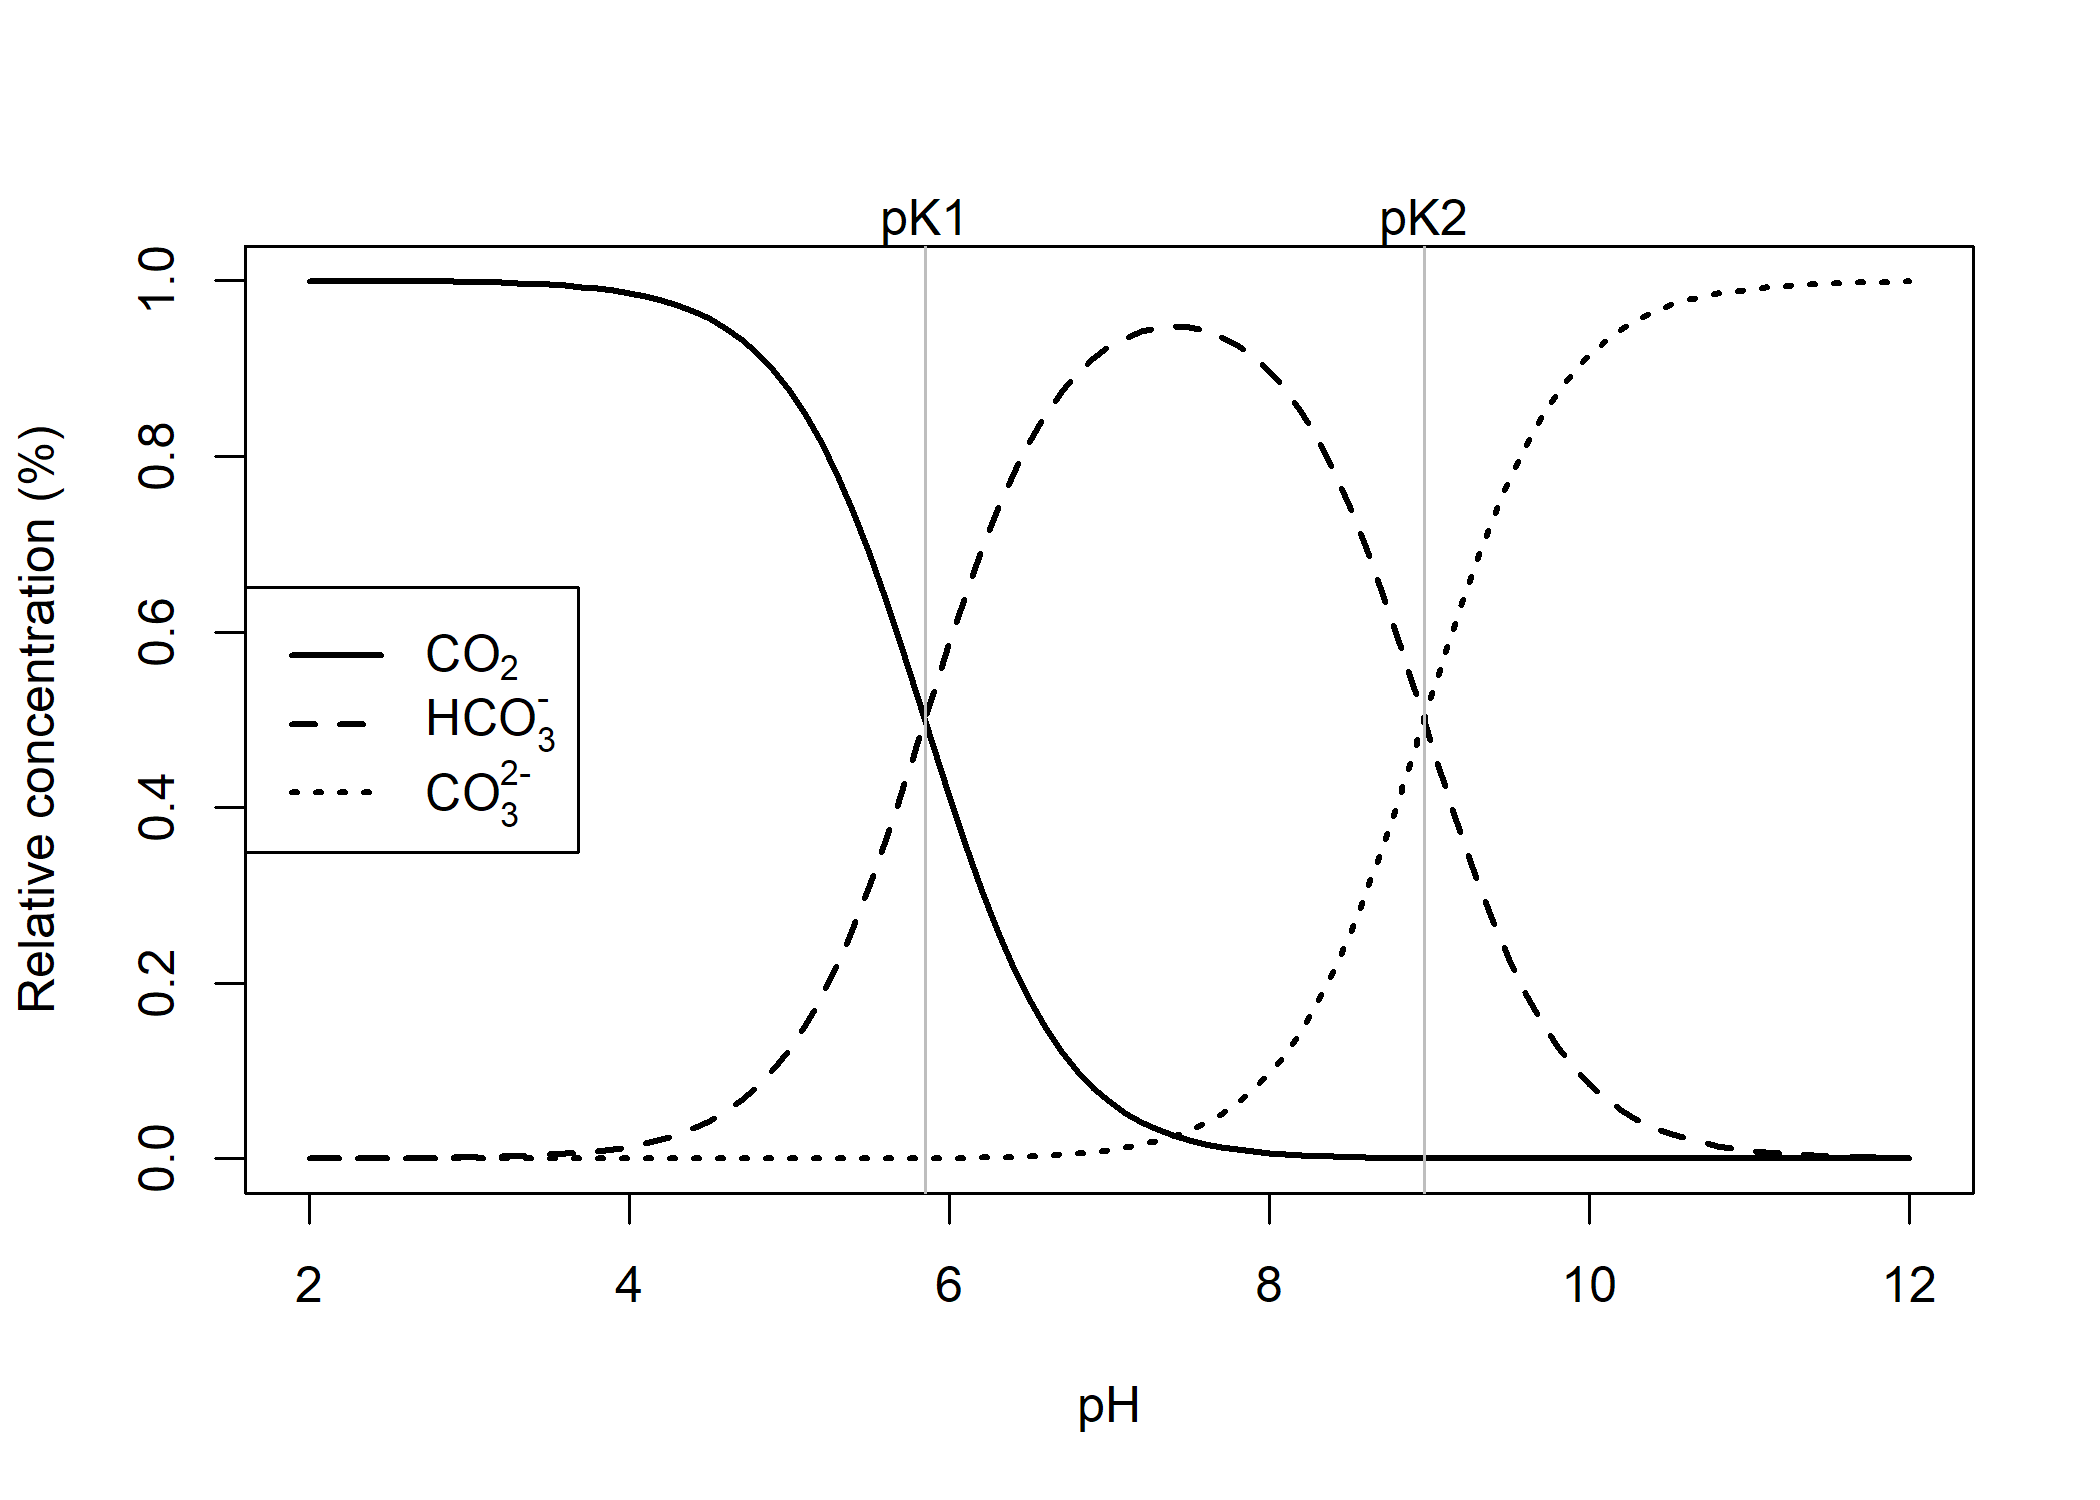
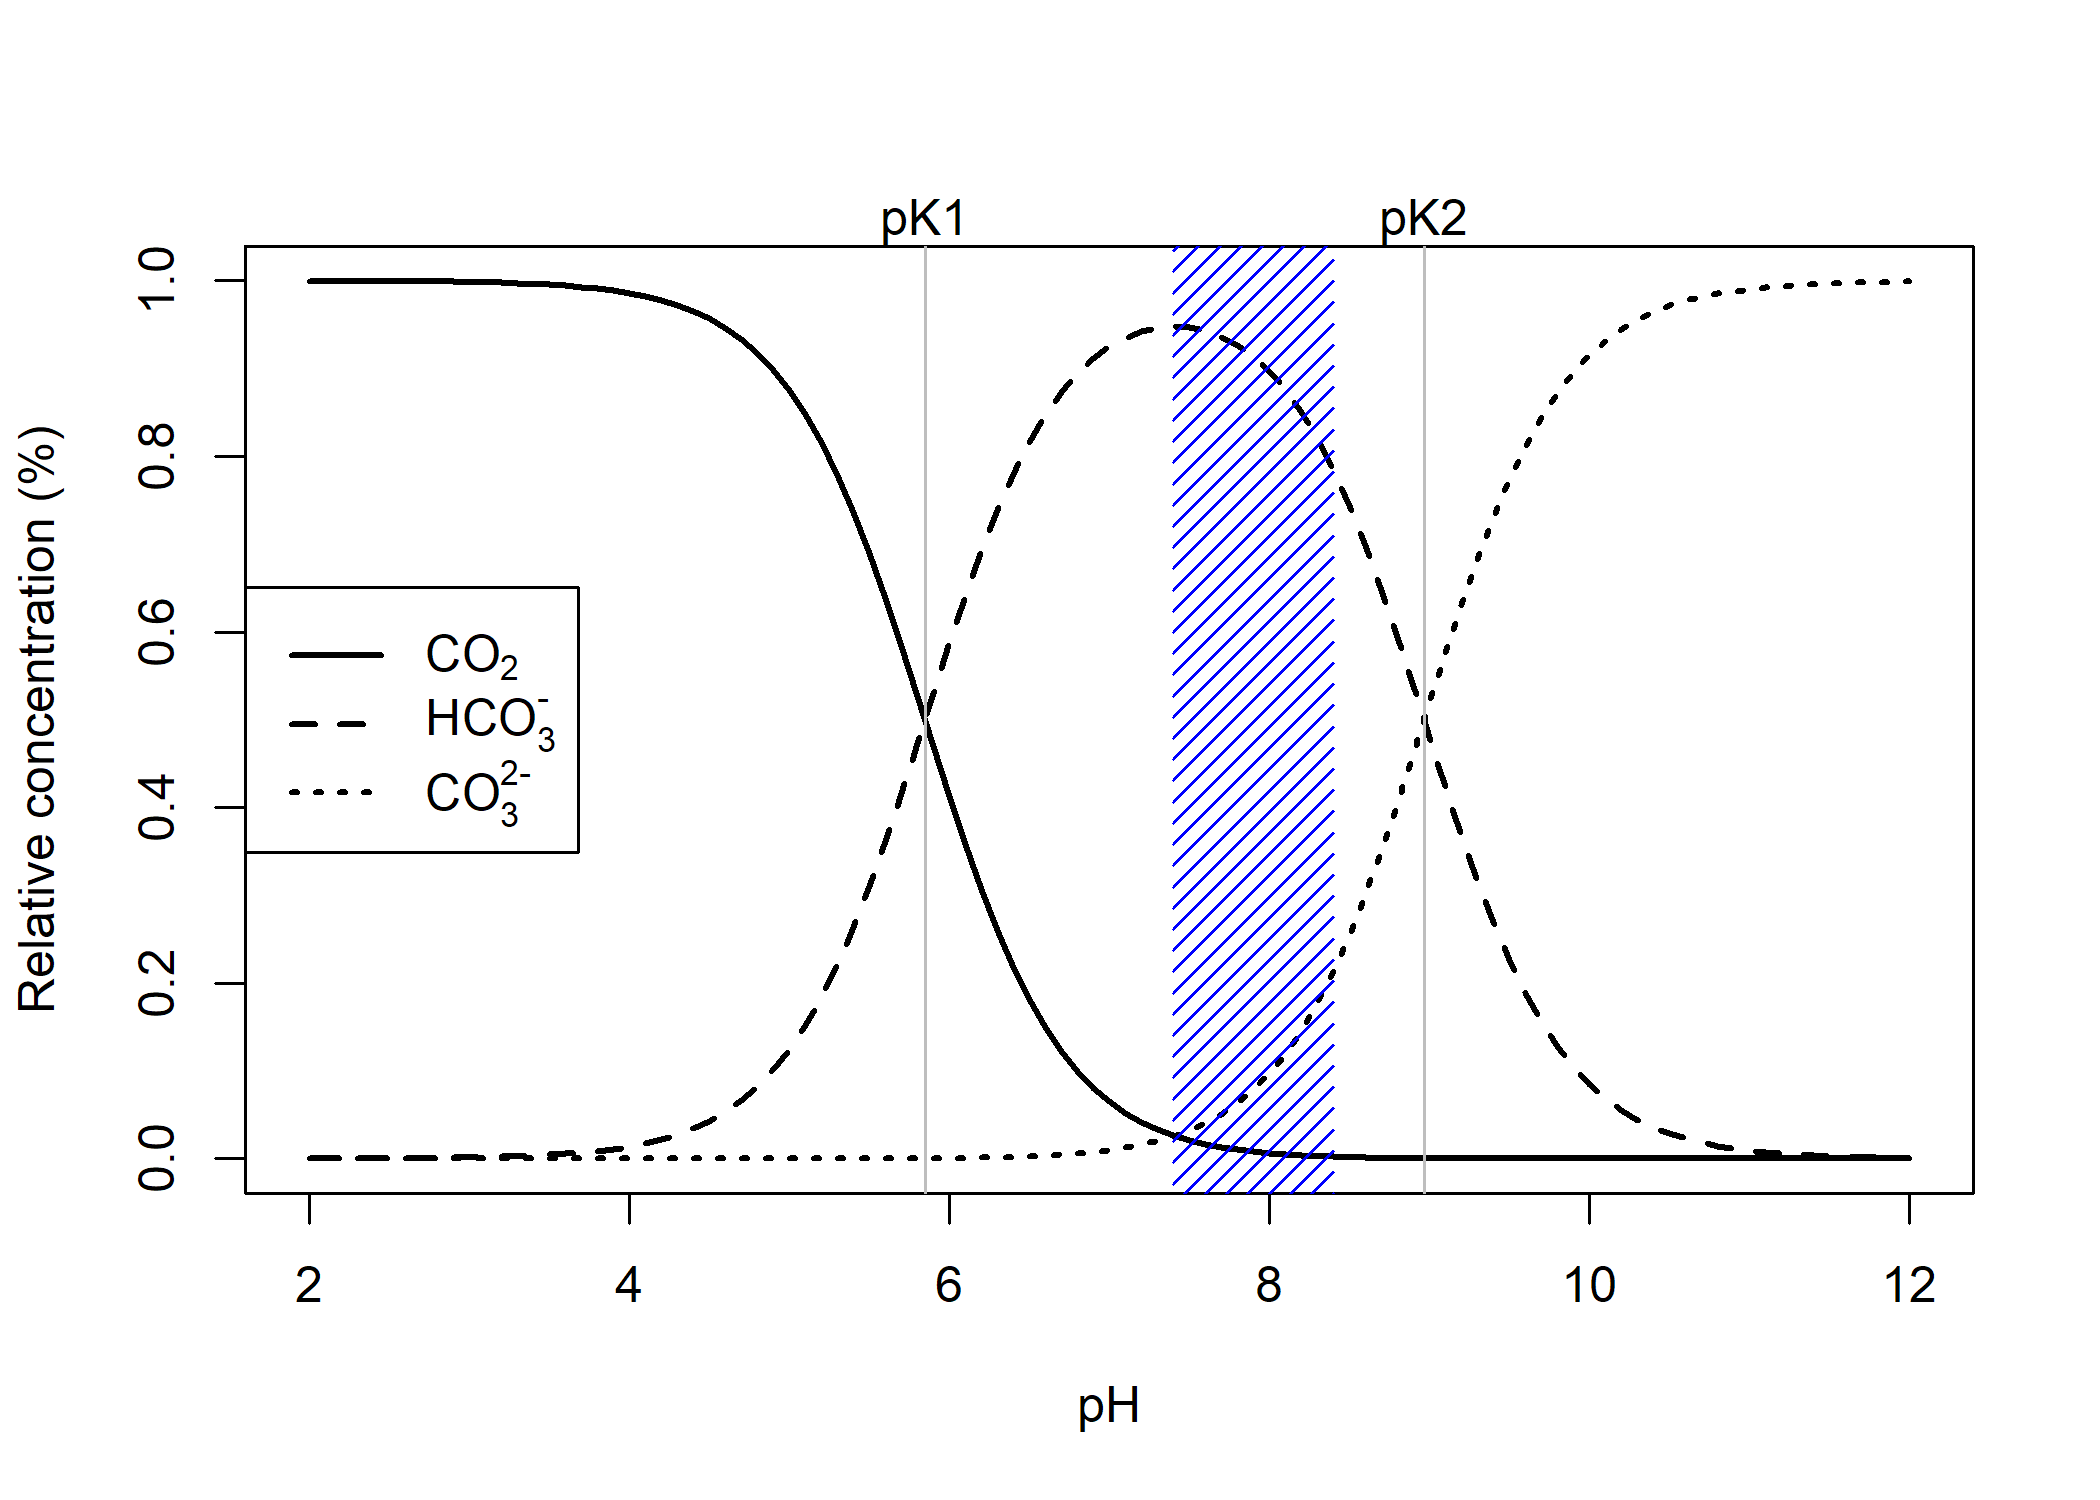
update

Changed region(s): [[0.5571, 0.1533, 0.65, 0.7973]]

diff --git a/_posts/2023-09-15-seawaterChemistryCalculations.md b/_posts/2023-09-15-seawaterChemistryCalculations.md
@@ -78,31 +78,33 @@ characterize climate change.
 Dissolved oxygen (DO) is the amount of oxygen in seawater directly
 available to living organisms and is normally altered by the balance of
 photosynthesis and respiration of all community constituents. DO is
-traditionally expressed in units of O2 mg/L, % air saturation, or umol
-O2/L. When characterizing reef environments, these three units are
-interchangeable. % Air saturation is dependent upon temperature,
+traditionally expressed in units of O2 mg/L, % air saturation, or
+$\mu$mol O2/L. When characterizing reef environments, these three units
+are interchangeable. % Air saturation is dependent upon temperature,
 salinity, and pressure, while the other units are pressure-free
-quantities. By convention, coral incubations generally use umol O2/L.
+quantities. By convention, coral incubations generally use $\mu$mol
+O2/L.
 
 Hypoxia, or insufficient availability of DO, is defined as DO \< 2mg/L
-(24% air saturation/ 61 umol O2/L). Low oxygen, but not hypoxia, is
-defined as DO \< 5 mg/L (60.52% air saturation/ 153 umol O2/L). Hypoxia
-or low oxygen can be induced by warming, restricted water flow,
+(24% air saturation/ 61 $\mu$mol O2/L). Low oxygen, but not hypoxia, is
+defined as DO \< 5 mg/L (60.52% air saturation/ 153 $\mu$mol O2/L).
+Hypoxia or low oxygen can be induced by warming, restricted water flow,
 increased biological oxygen demand, nutrient and organic matter loading,
 or influx of oxygen poor water.
 
 Normoxia, or the oxygen conditions normally experienced in healthy reef
 environments, has a mean daily DO of 7.3 mg/L (88% Air saturation/ 173
-umol O2/L), mean daily range of 2.6 mg/L (42% air saturation/ 81 umol
-O2/L ), a mean daily minimum of 4.4 mg/L (69% air saturation/ 136 umol
-O2/L), and a mean daily maximum of 6.9 mg/L (111% air saturation/ 217
-umol O2/L). These mean normoxia values come from autonomous sensor data
-aggregated by [Pezner AK *et al.* (2023) Nat Clim Chang.
-13:403-409](https://doi.org/10.1038/s41558-023-01619-2), and provide a
-general overview of present-day oxygen conditions. Reef DO will vary as
-a function of benthic community composition, where higher scleractinian
-coral cover will have higher daily maximums compared to an algal
-dominated reef due to the high rates of endosymbiont photosynthesis.
+$\mu$mol O2/L), mean daily range of 2.6 mg/L (42% air saturation/ 81
+$\mu$mol O2/L ), a mean daily minimum of 4.4 mg/L (69% air saturation/
+136 $\mu$mol O2/L), and a mean daily maximum of 6.9 mg/L (111% air
+saturation/ 217 $\mu$mol O2/L). These mean normoxia values come from
+autonomous sensor data aggregated by [Pezner AK *et al.* (2023) Nat Clim
+Chang. 13:403-409](https://doi.org/10.1038/s41558-023-01619-2), and
+provide a general overview of present-day oxygen conditions. Reef DO
+will vary as a function of benthic community composition, where higher
+scleractinian coral cover will have higher daily maximums compared to an
+algal dominated reef due to the high rates of endosymbiont
+photosynthesis.
 
 Dissolved oxygen concentrations can be measured amperometricly on
 discrete water samples with the Winkler Titration or with oxygen optodes
@@ -154,7 +156,8 @@ uptake of carbon dioxide. The fraction of DIC species is pH dependent
 and can be readily visualized as follows,
 
 <h5>
-Figure 1. DIC speciation plot
+Figure 1. DIC speciation plot, shaded region corresponds to reef pH
+under extreme OA to historical pH values
 </h5>
 
 <img src="/notebook/images/hypoxiaEnzymeAssay/bjerru-plot-1.png" width="90%" style="display: block; margin: auto;" />
@@ -163,9 +166,13 @@ Total Alkalinity (TA, sometimes stylized in papers as $A_T$) can be
 defined as the total buffering capacity of the seawater, or the excess
 of proton receptors over proton donors,
 
-$TA = [HCO_3^-] + 2[CO^{2-}_3] + [B(OH)^-_4] + [OH^-] + [HPO^{2-}_4] + 2[PO^{3-}_4] +$
-$[SiO(OH)^-_3] + [NH3] + [HS^-] - [HSO_4^-] - [H^+]_F - [HF] -$
-$[H_3PO_4] + [\text{minor acids - minor bases}]$
+<div align="center">
+
+$TA = [HCO_3^-] + 2[CO^{2-}_3] + [B(OH)^-_4] + [OH^-] + [HPO^{2-}_4] +$
+$2[PO^{3-}_4] + [SiO(OH)^-_3] + [NH3] + [HS^-] - [HSO_4^-] - [H^+]_F -$
+$[HF] - [H_3PO_4] + [\text{minor acids - minor bases}]$
+
+</div>
 
 TA is influenced predominantly by bicarbonate and carbonate ion
 concentration along with a myriad of other minor constituents (Murillo
